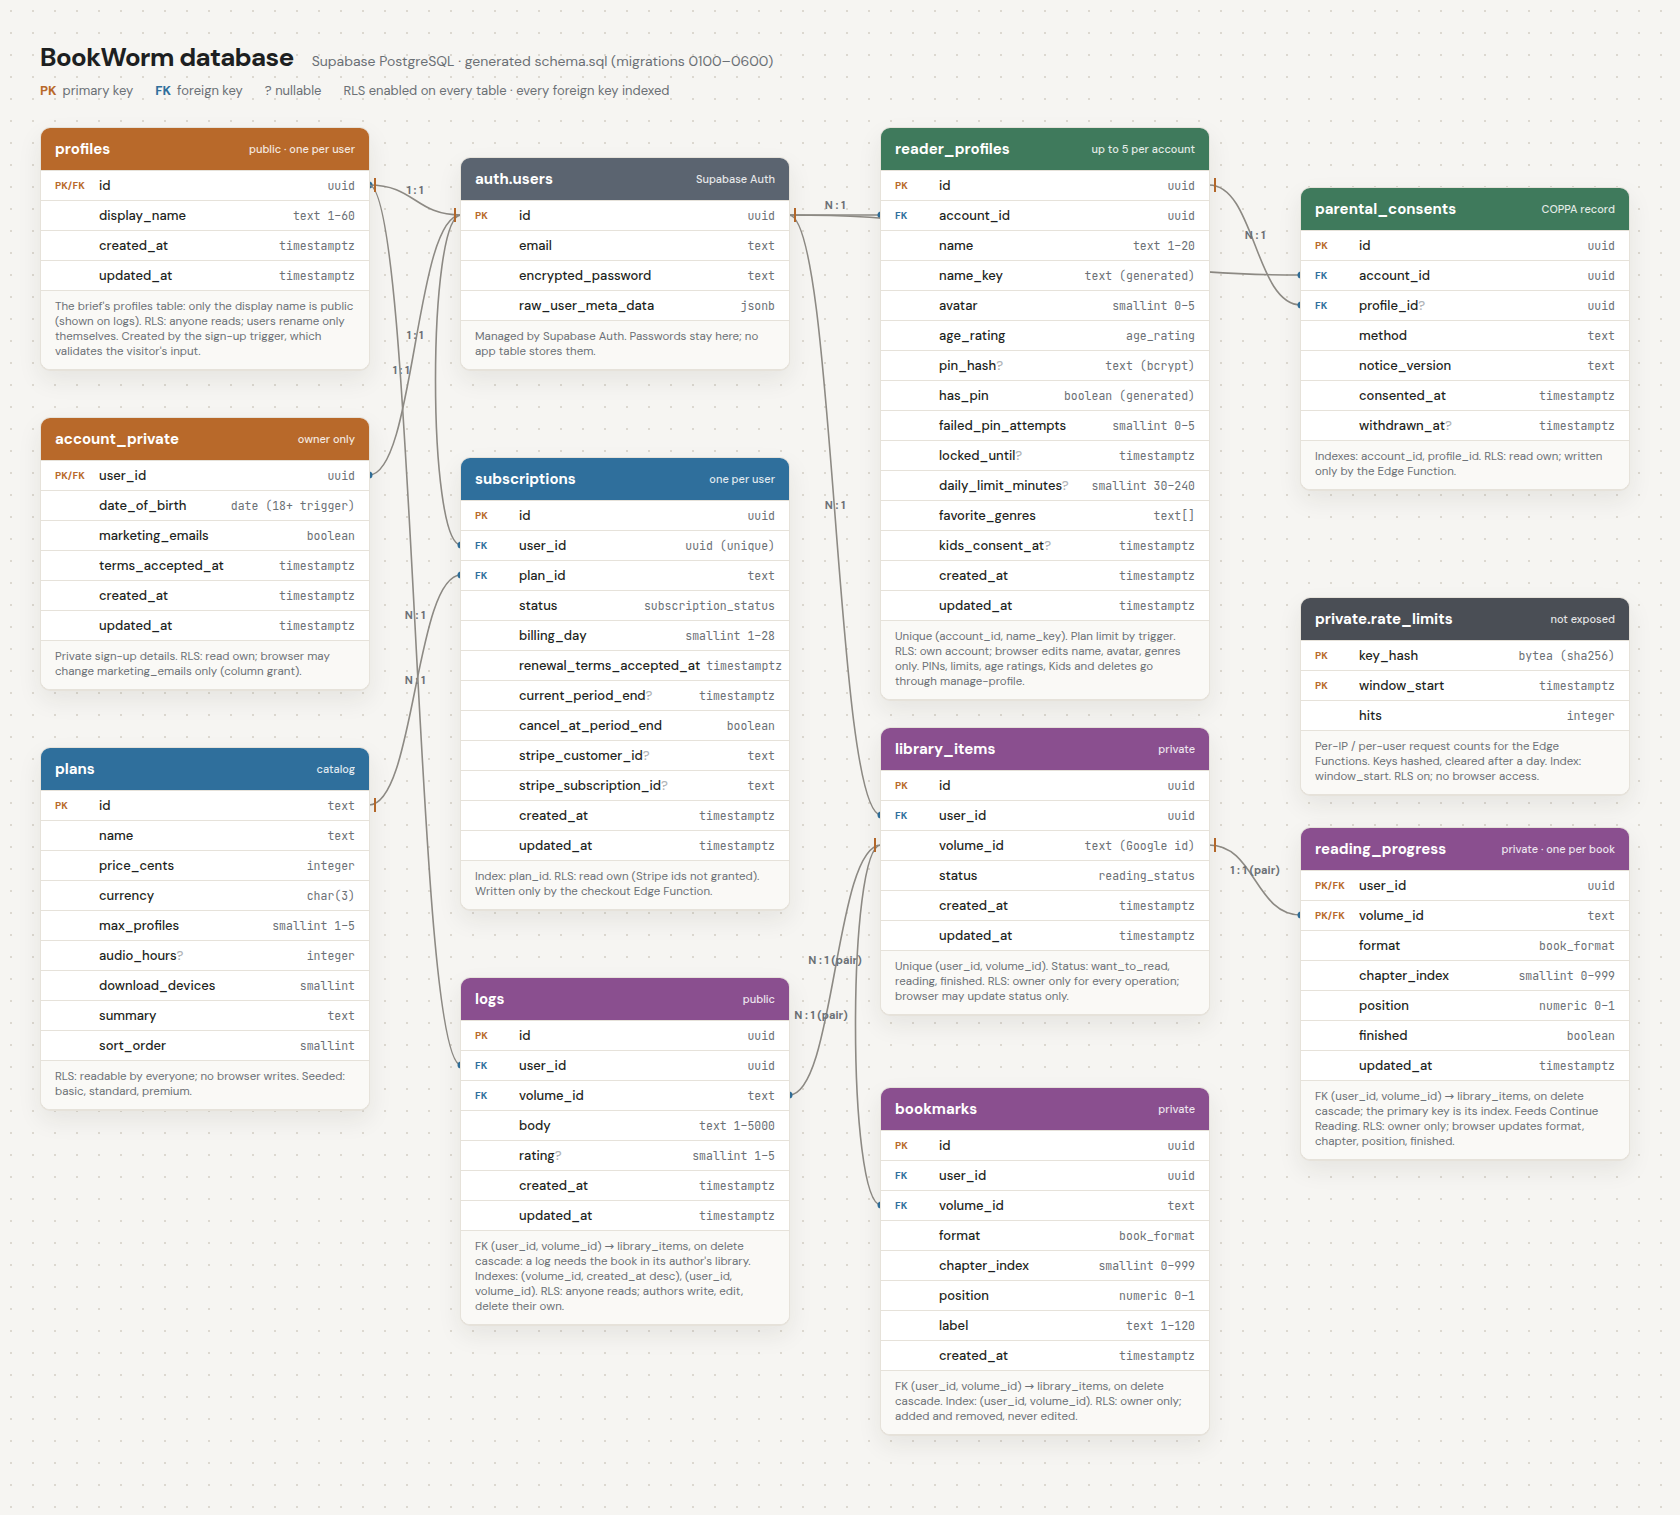
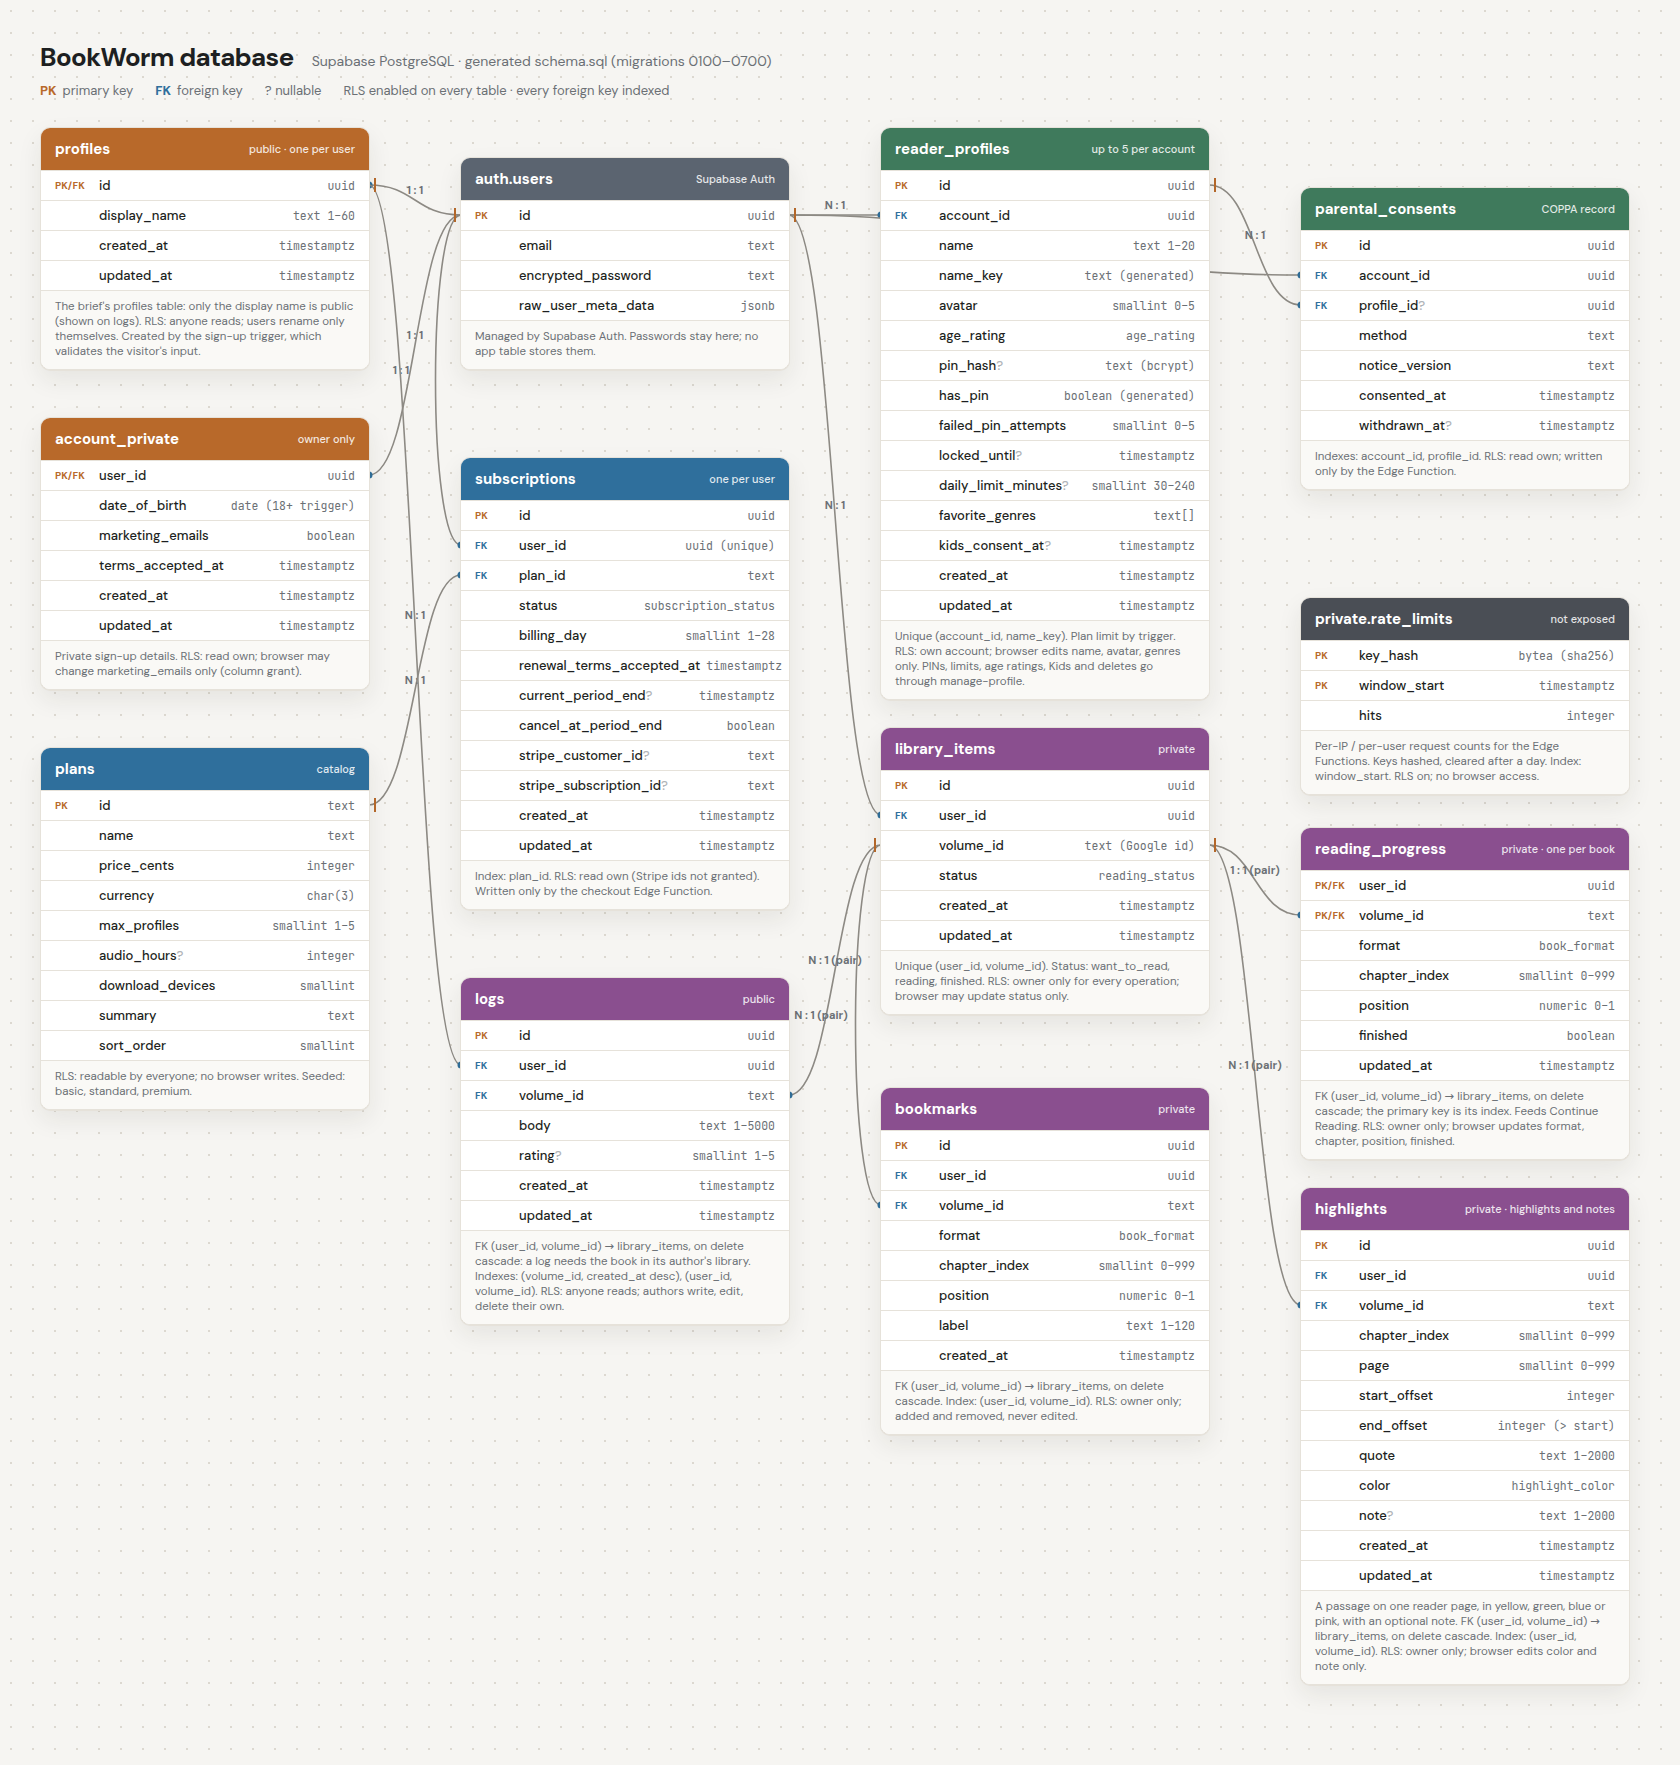
Schema: highlights and notes (private, tied to a library item)

Changed region(s): [[0.0, 0.031, 0.9905, 0.9617]]

diff --git a/docs/erd/erd.html b/docs/erd/erd.html
@@ -87,7 +87,7 @@
 
     <script>
       // ---- Keep in sync with schema.sql -------------------------------------------------
-      const subtitle = "Supabase PostgreSQL · generated schema.sql (migrations 0100–0600)";
+      const subtitle = "Supabase PostgreSQL · generated schema.sql (migrations 0100–0700)";
 
       const colors = {
         auth: "#5b6470", account: "#b8692a", billing: "#2f6f9c", household: "#3f7a5c",
@@ -214,6 +214,24 @@
           note: "FK (user_id, volume_id) → library_items, on delete cascade. Index: (user_id, volume_id). RLS: owner only; added and removed, never edited.",
         },
         {
+          id: "highlights", color: colors.reading, x: 1260, y: 1060, sub: "private · highlights and notes",
+          cols: [
+            ["pk", "id", "uuid"],
+            ["fk", "user_id", "uuid"],
+            ["fk", "volume_id", "text"],
+            ["", "chapter_index", "smallint 0–999"],
+            ["", "page", "smallint 0–999"],
+            ["", "start_offset", "integer"],
+            ["", "end_offset", "integer (> start)"],
+            ["", "quote", "text 1–2000"],
+            ["", "color", "highlight_color"],
+            ["", "note", "text 1–2000", true],
+            ["", "created_at", "timestamptz"],
+            ["", "updated_at", "timestamptz"],
+          ],
+          note: "A passage on one reader page, in yellow, green, blue or pink, with an optional note. FK (user_id, volume_id) → library_items, on delete cascade. Index: (user_id, volume_id). RLS: owner only; browser edits color and note only.",
+        },
+        {
           id: "reader_profiles", color: colors.household, x: 840, y: 0, sub: "up to 5 per account",
           cols: [
             ["pk", "id", "uuid"],
@@ -272,6 +290,7 @@
         ["logs", "volume_id", "library_items", "volume_id", "N : 1 (pair)"],
         ["reading_progress", "volume_id", "library_items", "volume_id", "1 : 1 (pair)"],
         ["bookmarks", "volume_id", "library_items", "volume_id", "N : 1 (pair)"],
+        ["highlights", "volume_id", "library_items", "volume_id", "N : 1 (pair)"],
       ];
       // -----------------------------------------------------------------------------------
 
